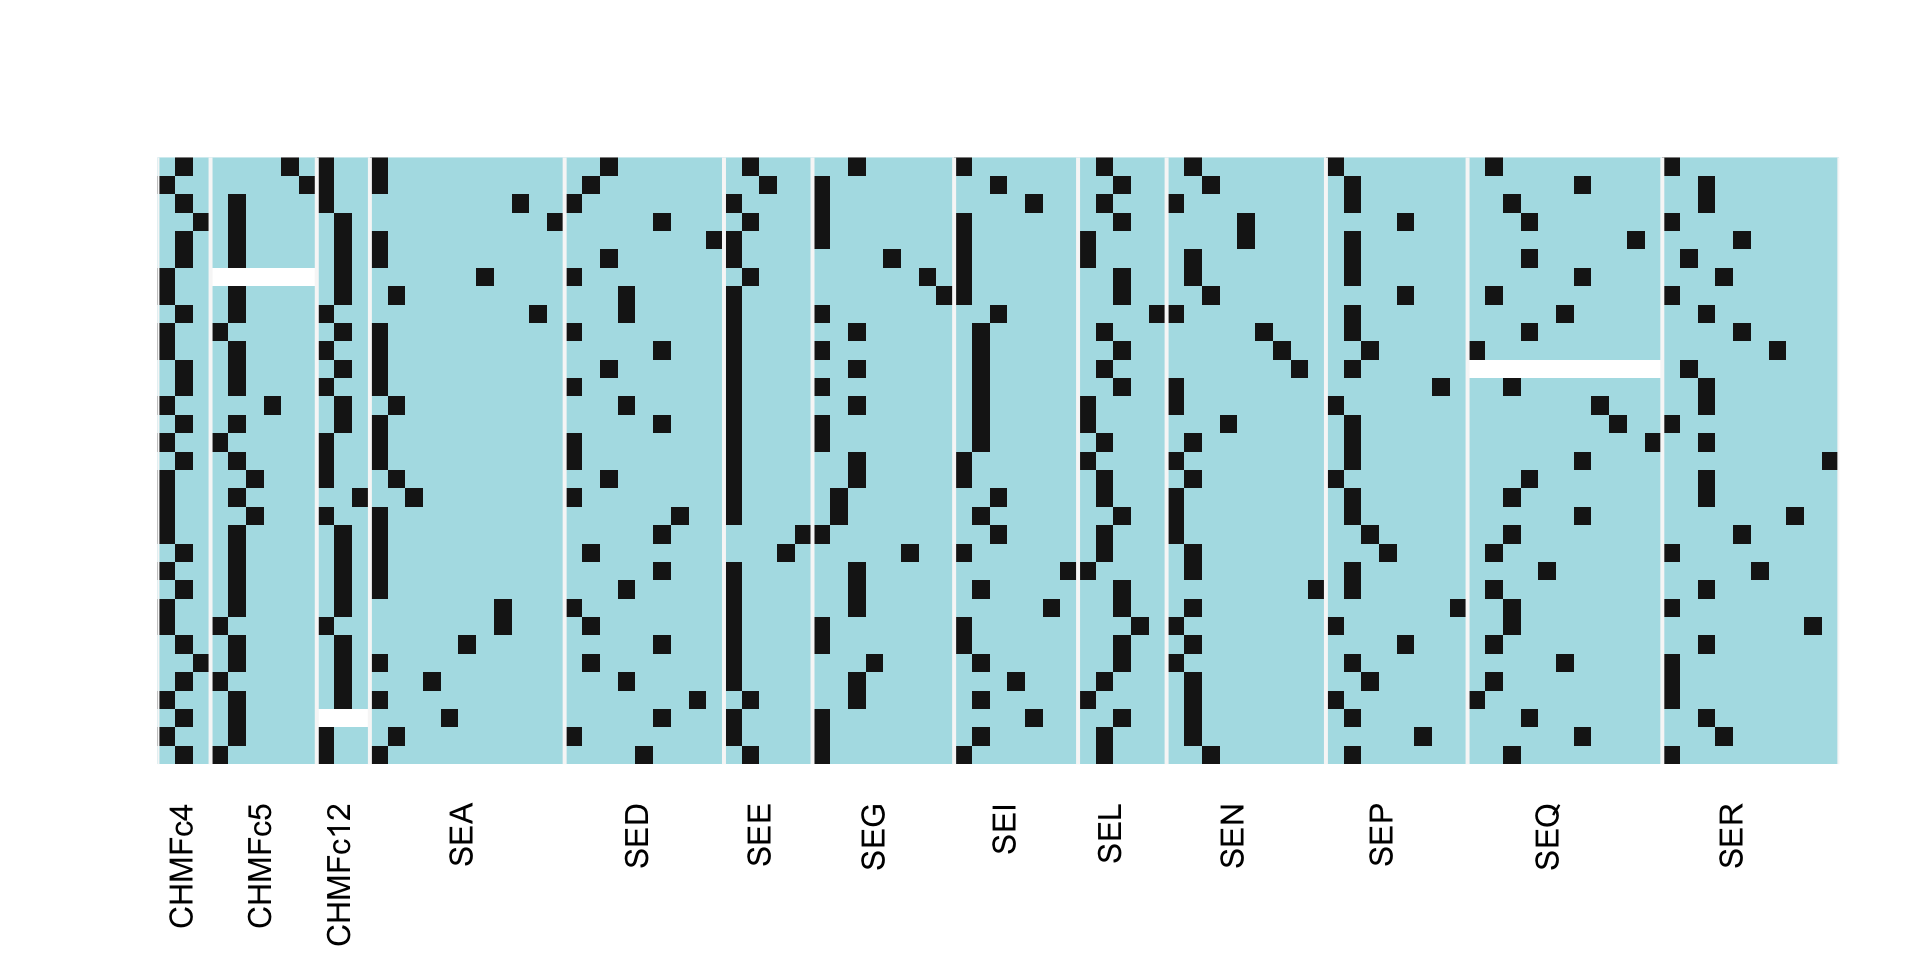
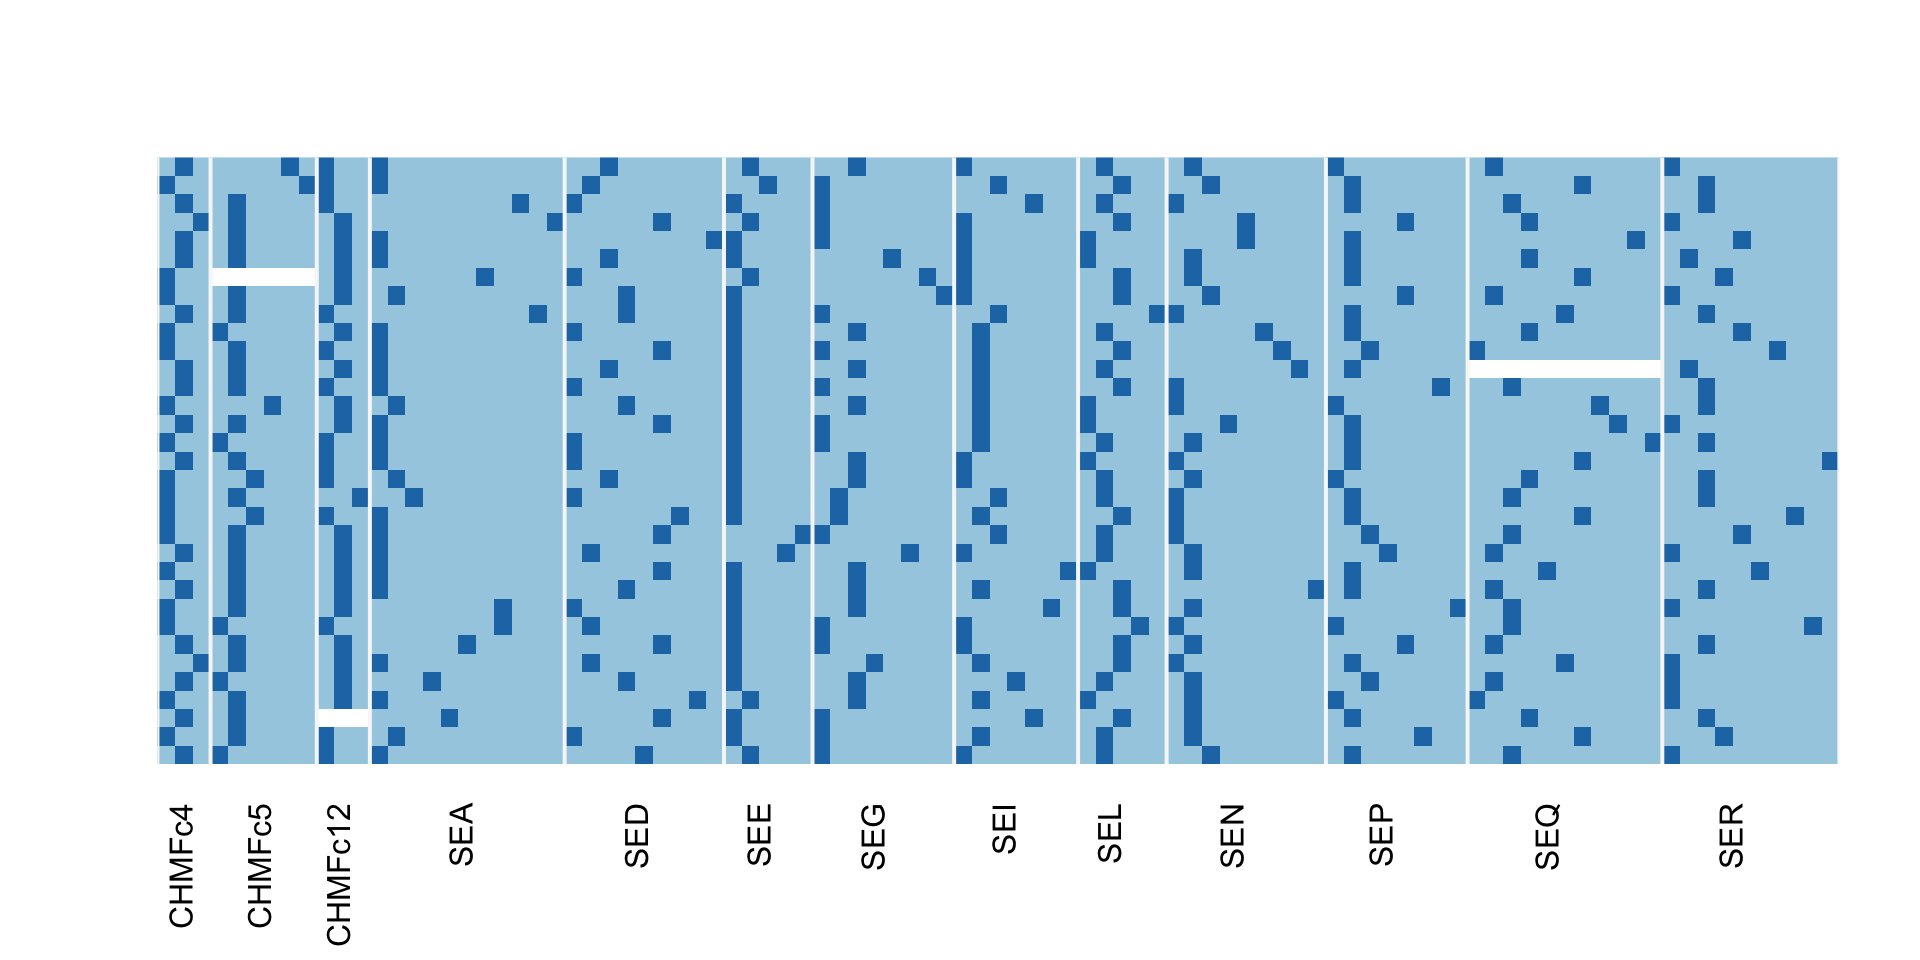
update visualization colors

diff --git a/docs/articles/getting-started.html b/docs/articles/getting-started.html
@@ -241,12 +241,12 @@ monilinia_shuffled &lt;-<span class="st"> </span>monilinia[<span class="kw">samp
 <span class="kw"><a href="../reference/rpv_image.html">rpv_image</a></span>(monilinia, <span class="dt">f =</span> loci, <span class="dt">highlight =</span> new_ids, 
           <span class="dt">newplot =</span> <span class="ot">FALSE</span>,                 <span class="co"># avoid creating a new plot</span>
           <span class="dt">col =</span> <span class="kw">c</span>(<span class="st">"grey95"</span>, <span class="st">"grey10"</span>),     <span class="co"># color background grey</span>
-          <span class="dt">idcol =</span> <span class="kw">c</span>(<span class="st">"firebrick"</span>, <span class="st">"yellow"</span>) <span class="co"># color highlight red and yellow</span>
+          <span class="dt">idcol =</span> <span class="kw">c</span>(<span class="st">"#B15928"</span>, <span class="st">"#FFFF99"</span>)  <span class="co"># reverse foreground colors</span>
           )
 <span class="kw"><a href="../reference/rpv_image.html">rpv_image</a></span>(monilinia, <span class="dt">f =</span> loci, <span class="dt">highlight =</span> ids, 
           <span class="dt">newplot =</span> <span class="ot">FALSE</span>,                 <span class="co"># avoid creating a new plot</span>
           <span class="dt">col =</span> <span class="kw">c</span>(<span class="st">"grey95"</span>, <span class="st">"grey10"</span>),     <span class="co"># color background grey</span>
-          <span class="dt">idcol =</span> <span class="kw">c</span>(<span class="st">"firebrick"</span>, <span class="st">"yellow"</span>) <span class="co"># color highlight red and yellow</span>
+          <span class="dt">idcol =</span> <span class="kw">c</span>(<span class="st">"#B15928"</span>, <span class="st">"#FFFF99"</span>)  <span class="co"># reverse foreground colors</span>
           )</code></pre></div>
 <p><img src="getting-started_files/figure-html/ex1_show-1.png" width="1000px" height="500px"></p>
 <div class="sourceCode"><pre class="sourceCode r"><code class="sourceCode r"><span class="kw">par</span>(<span class="dt">mfrow =</span> <span class="kw">c</span>(<span class="dv">1</span>, <span class="dv">1</span>))</code></pre></div>

diff --git a/docs/reference/rpv_image.html b/docs/reference/rpv_image.html
@@ -113,7 +113,7 @@
     
 
     <pre class="usage"><span class='fu'>rpv_image</span>(<span class='no'>tab</span>, <span class='kw'>f</span> <span class='kw'>=</span> <span class='kw'>NULL</span>, <span class='kw'>highlight</span> <span class='kw'>=</span> <span class='kw'>NULL</span>, <span class='kw'>newplot</span> <span class='kw'>=</span> <span class='fl'>TRUE</span>,
-  <span class='kw'>col</span> <span class='kw'>=</span> <span class='fu'>c</span>(<span class='st'>"powderblue"</span>, <span class='st'>"grey10"</span>), <span class='kw'>idcol</span> <span class='kw'>=</span> <span class='fu'>c</span>(<span class='st'>"yellow"</span>, <span class='st'>"firebrick"</span>))</pre>
+  <span class='kw'>col</span> <span class='kw'>=</span> <span class='fu'>c</span>(<span class='st'>"#A6CEE3"</span>, <span class='st'>"#1F78B4"</span>), <span class='kw'>idcol</span> <span class='kw'>=</span> <span class='fu'>c</span>(<span class='st'>"#FFFF99"</span>, <span class='st'>"#B15928"</span>))</pre>
     
     <h2 class="hasAnchor" id="arguments"><a class="anchor" href="#arguments"></a>Arguments</h2>
     <table class="ref-arguments">
